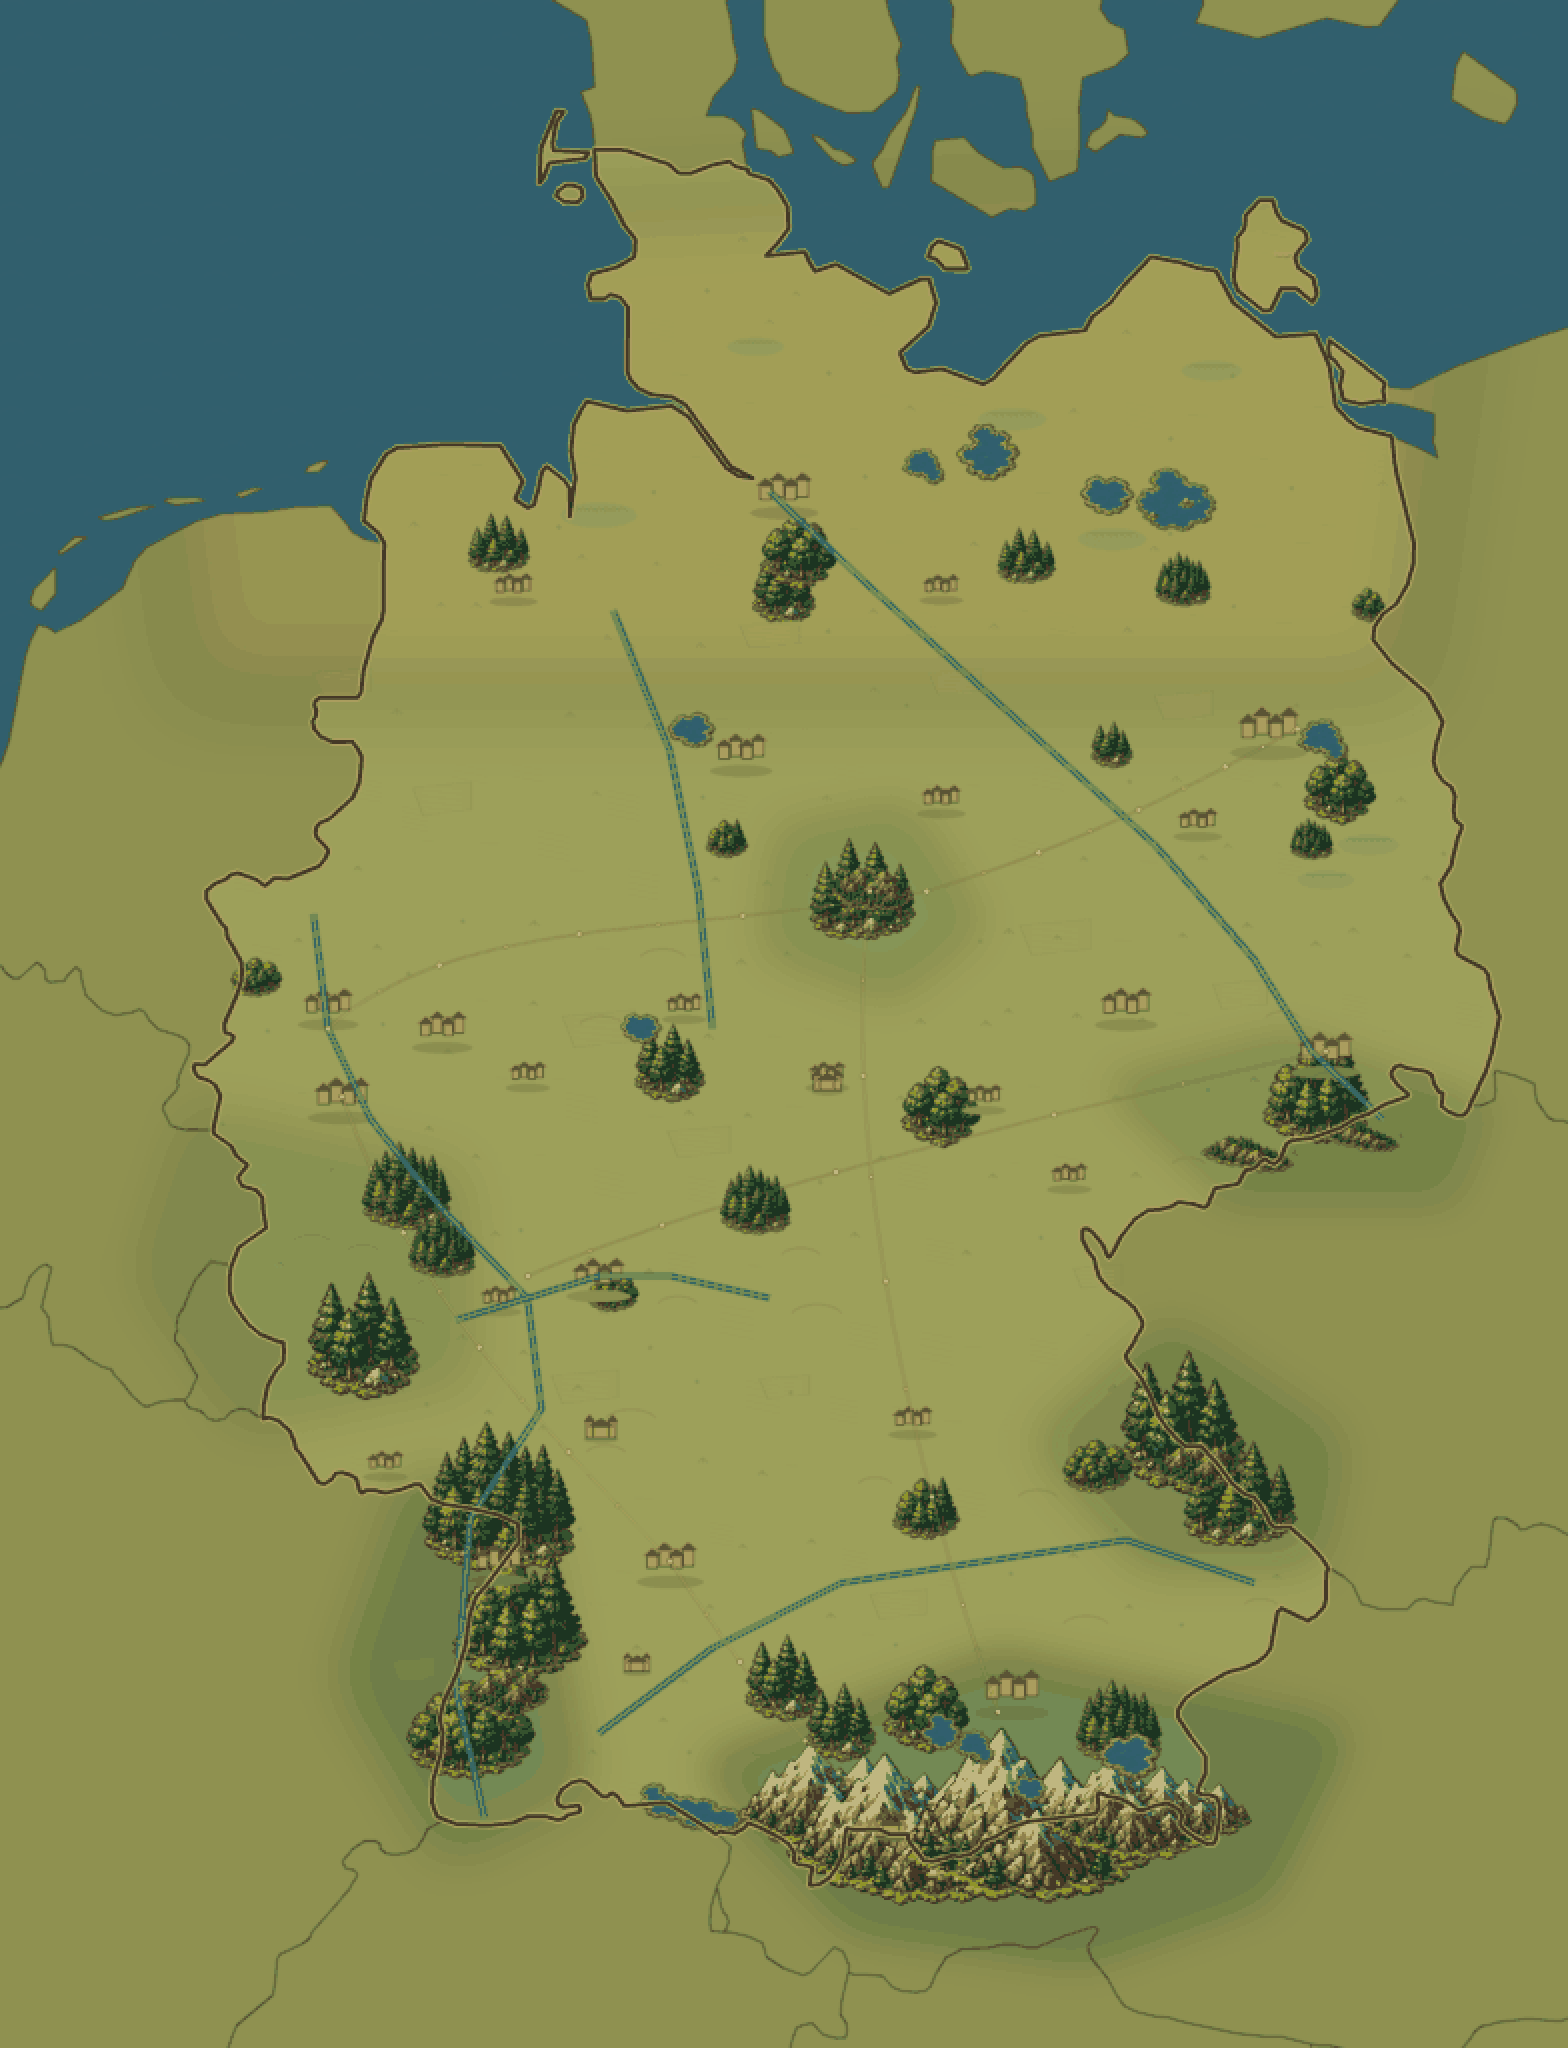
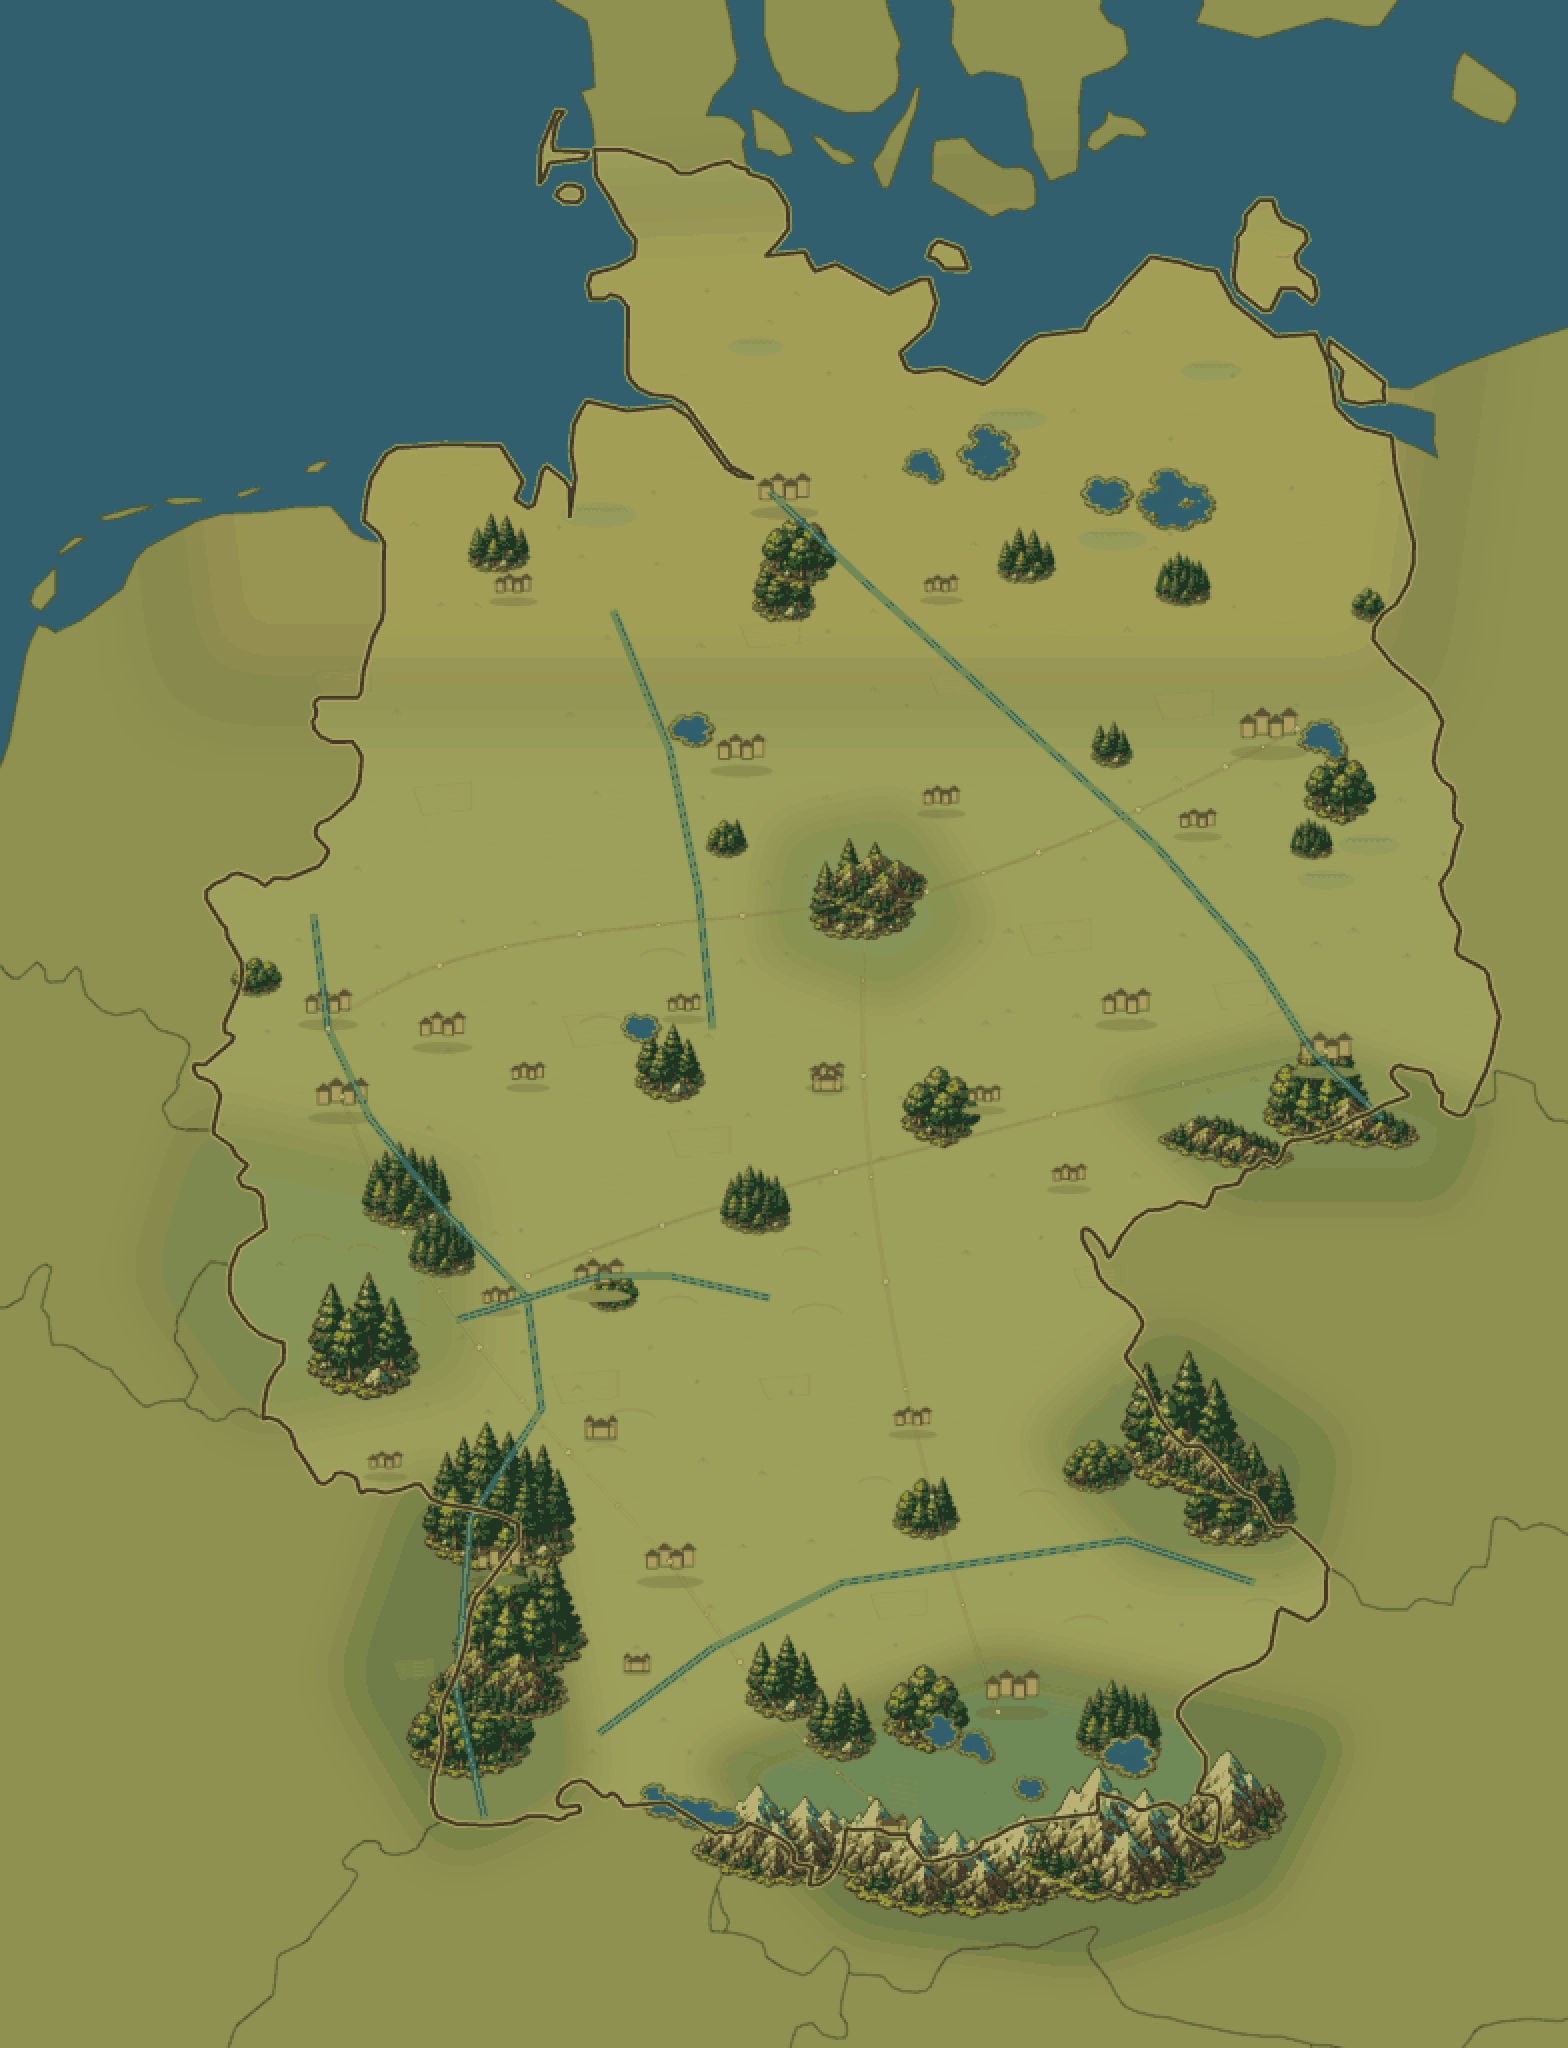
Use explicit relief glyph placements

diff --git a/map_pipeline/compose_map.py b/map_pipeline/compose_map.py
@@ -38,7 +38,8 @@ RELIEF_REGIONS = [
         "blur": 24,
         "points": [(7.45, 49.2), (8.25, 48.9), (8.55, 47.75), (7.65, 47.45), (6.95, 48.25)],
         "trees": [(8.0, 49.0, 82), (8.15, 48.45, 76), (7.8, 47.95, 70)],
-        "mountains": [(8.05, 48.15, 34)],
+        "mountain_glyphs": [("highland_forest_2", 8.00, 48.18, 150)],
+        "mountains": [],
     },
     {
         "id": "alps",
@@ -50,7 +51,13 @@ RELIEF_REGIONS = [
         "extends_to": ["France", "Switzerland", "Italy", "Austria", "Slovenia"],
         "points": [(9.45, 47.85), (10.5, 47.1), (12.1, 46.95), (13.35, 47.25), (13.9, 48.0), (11.5, 48.35)],
         "trees": [(10.0, 48.2, 44), (11.0, 48.05, 50), (12.35, 48.0, 46)],
-        "mountains": [(10.45, 47.62, 74), (11.05, 47.45, 98), (11.75, 47.50, 88), (12.55, 47.58, 70)],
+        "mountain_glyphs": [
+            ("alps_range_1", 10.05, 47.45, 210),
+            ("alps_range_3", 11.20, 47.33, 265),
+            ("alps_range_2", 12.38, 47.43, 220),
+            ("alps_peak_2", 13.15, 47.62, 120),
+        ],
+        "mountains": [],
     },
     {
         "id": "bavarian_forest",
@@ -62,7 +69,8 @@ RELIEF_REGIONS = [
         "extends_to": ["Czechia", "Austria"],
         "points": [(11.8, 49.35), (12.55, 48.8), (13.7, 48.8), (13.85, 49.35), (12.7, 49.85)],
         "trees": [(12.8, 49.35, 72), (13.2, 49.05, 62)],
-        "mountains": [(12.9, 49.2, 34)],
+        "mountain_glyphs": [("highland_forest_3", 12.95, 49.20, 150)],
+        "mountains": [],
     },
     {
         "id": "harz",
@@ -73,7 +81,8 @@ RELIEF_REGIONS = [
         "blur": 20,
         "points": [(10.0, 52.05), (10.85, 52.15), (11.35, 51.65), (10.75, 51.35), (9.9, 51.55)],
         "trees": [(10.55, 51.75, 58)],
-        "mountains": [(10.62, 51.78, 32)],
+        "mountain_glyphs": [("highland_forest_1", 10.62, 51.78, 118)],
+        "mountains": [],
     },
     {
         "id": "erzgebirge",
@@ -85,7 +94,8 @@ RELIEF_REGIONS = [
         "extends_to": ["Czechia"],
         "points": [(12.3, 50.95), (13.15, 50.45), (14.65, 50.45), (14.9, 50.85), (13.55, 51.15)],
         "trees": [(13.75, 50.85, 62)],
-        "mountains": [(13.25, 50.62, 36), (14.05, 50.7, 30)],
+        "mountain_glyphs": [("border_highland_1", 13.10, 50.66, 145), ("border_highland_2", 14.05, 50.75, 125)],
+        "mountains": [],
     },
     {
         "id": "eifel_hunsrueck",
@@ -279,6 +289,8 @@ def _draw_terrain(canvas, proj, land_mask):
     for region in RELIEF_REGIONS:
         for lon, lat, size in region.get("trees", []):
             _draw_tree_cluster(decor, proj, lon, lat, size)
+        for glyph_name, lon, lat, width in region.get("mountain_glyphs", []):
+            _draw_glyph_center(decor, proj, glyph_name, lon, lat, width)
         for lon, lat, size in region.get("mountains", []):
             _draw_mountains(decor, draw, proj, lon, lat, size, region.get("glyph", "alpine"))
     for lon, lat, size in [

diff --git a/tests/test_map_panel_contract.py b/tests/test_map_panel_contract.py
@@ -245,6 +245,10 @@ class MapPanelContractTest(unittest.TestCase):
             "RELIEF_REGIONS = [",
             '"id": "alps"',
             '"glyph": "alpine"',
+            '"mountain_glyphs": [',
+            '("alps_range_1", 10.05, 47.45, 210)',
+            '("highland_forest_1", 10.62, 51.78, 118)',
+            '("border_highland_1", 13.10, 50.66, 145)',
             '"extends_to": ["France", "Switzerland", "Italy", "Austria", "Slovenia"]',
             '"id": "black_forest"',
             '"glyph": "forested_highland"',
@@ -257,6 +261,8 @@ class MapPanelContractTest(unittest.TestCase):
             '"glyph": "lowland"',
             '"mountains": []',
             "for region in RELIEF_REGIONS:",
+            'for glyph_name, lon, lat, width in region.get("mountain_glyphs", []):',
+            "_draw_glyph_center(decor, proj, glyph_name, lon, lat, width)",
             'for lon, lat, size in region.get("mountains", []):',
             'region.get("glyph", "alpine")',
             'def _draw_mountains(canvas, draw, proj, lon, lat, size, glyph="alpine"):',

diff --git a/docs/active-map-backlog.md b/docs/active-map-backlog.md
@@ -14,7 +14,8 @@
 - [x] #60 Убрать залитые фоновые плашки под транспортными пиктограммами: оставить естественный outline/glow, чтобы объекты читались лучше городов и выглядели частью карты.
 - [x] #61 Масштабировать транспортные и городские иконки вместе с zoom, но с максимальным порогом размера, чтобы пиксель-арт не раздувался.
 - [ ] #62 Перевести рельеф из декоративных гор в точные переиспользуемые overlay-слои: Alps, Harz, Black Forest, Erzgebirge, Bavarian Forest и другие реальные массивы. Германия начата; нужно расширить и проверить слой по Европе.
-- [ ] Настроить масштаб/якоря terrain glyphs по реальным географическим extent: Альпы должны начинаться/заканчиваться по настоящему массиву, Harz/Erzgebirge/Black Forest/Bavarian Forest не должны расползаться за свои области.
+- [x] Начать настройку масштаба/якорей terrain glyphs через явные `mountain_glyphs`: Альпы, Harz, Erzgebirge, Black Forest и Bavarian Forest больше не выбираются hash-ом.
+- [ ] Проверить и откалибровать `mountain_glyphs` по реальным relief extents: Альпы должны начинаться/заканчиваться по настоящему массиву, Harz/Erzgebirge/Black Forest/Bavarian Forest не должны расползаться за свои области.
 - [ ] #64 Провести terrain accuracy audit текущей Германии: убрать ложные большие горы у Hamburg/севера и проверить, что все видимые горы соответствуют реальности.
 - [ ] #63 Спроектировать Europe map pipeline для следующих стран и регионов: France, Spain, Italy, Switzerland, Austria, Germany neighbors, Scandinavia, Finland, Baltics, Russia, Belarus, Ukraine до украинских гор, Turkey; рельефные слои должны продолжаться через границы.
 - [ ] #63 Позже разбить большую Europe pipeline issue на маленькие блоки по странам/регионам/слоям, но пока держать общий список в одной issue, чтобы ничего не потерять.
@@ -26,5 +27,5 @@
 ## Current Known State
 
 - Карта на `http://127.0.0.1:9000/` пересобрана из `main`.
-- Последний map commit на момент обновления backlog: pending sprite-glyph terrain commit after current review.
-- Текущий рельеф Германии перешел на reusable sprite glyphs для гор, лесов и озер; blocker для `8/10+` теперь масштаб/extent этих glyphs по реальной географии и дальнейшая Европа без country-only clipping.
+- Последний map commit на момент обновления backlog: pending explicit relief placement commit after current review.
+- Текущий рельеф Германии перешел на reusable sprite glyphs для гор, лесов и озер; главные горные массивы уже имеют явные placements. Blocker для `8/10+` теперь проверка этих placements по реальным relief extent и дальнейшая Европа без country-only clipping.

diff --git a/docs/map-quality-audit-2026-05-31.md b/docs/map-quality-audit-2026-05-31.md
@@ -161,3 +161,17 @@ Screenshots:
 - `/tmp/cable-world-web-map/desktop-1280x800-map-v9.png`
 
 Rubric estimate after sprite glyph terrain iteration 2026-05-31: stronger 7/10 candidate, not 8/10 yet. Alps and forests finally read as map glyphs, but the exact scale/extent of every range still needs geographic tuning before it satisfies the 10/10 terrain accuracy criterion.
+
+Explicit relief placement iteration result:
+
+- Mountain sprite selection moved from hash-based choice inside `_draw_mountains()` to explicit `mountain_glyphs` in `RELIEF_REGIONS`.
+- Alps now use a controlled sequence of `alps_range_*` and `alps_peak_*` placements along the southern Alpine band, so start/end/scale can be tuned directly.
+- Harz, Black Forest, Bavarian Forest and Erzgebirge now each declare their own sprite, anchor and width instead of inheriting a generic random-looking range.
+- Fresh Web build is served on `http://127.0.0.1:9000/`; `index.pck` returns gzip and no-store headers.
+
+Screenshots:
+
+- `/tmp/cable-world-web-map/mobile-390x844-map-v11.png`
+- `/tmp/cable-world-web-map/desktop-1280x800-map-v11.png`
+
+Rubric estimate after explicit relief placement iteration 2026-05-31: still around 7/10. It is materially closer to 8/10 because major relief is now controllable by real layer definitions, but final quality still needs calibrated extents against a real relief source and a pass on label/marker crowding.
